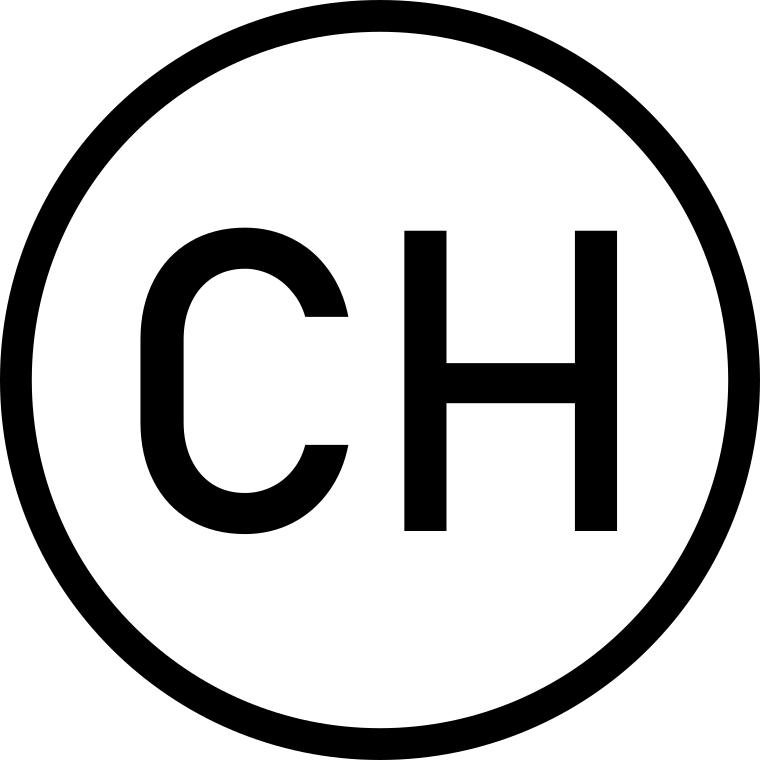
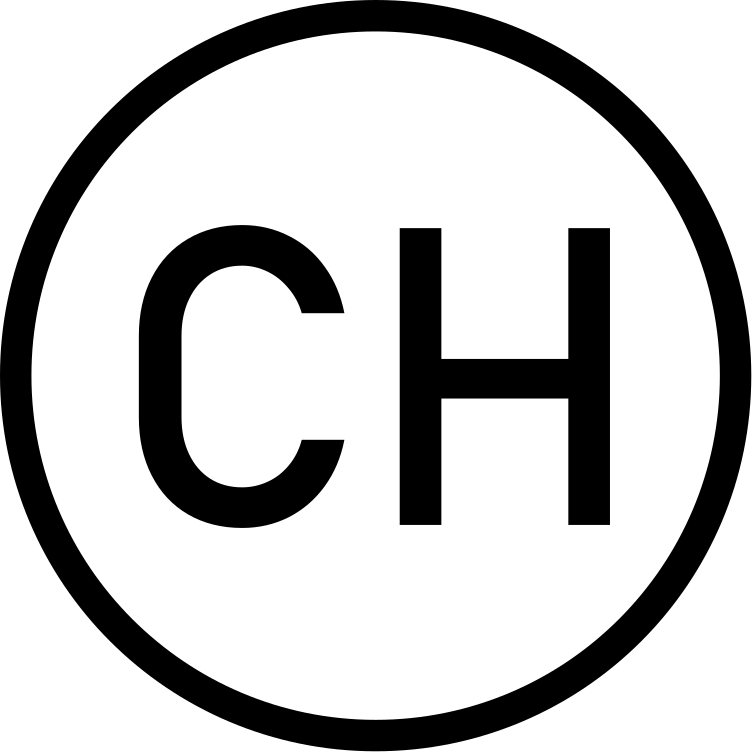
Vectorized the image

diff --git a/index.html b/index.html
@@ -9,7 +9,25 @@
 <body>
     <header id="navHeader">
         <div class="logo">
-            <a href="#hero"><img id="logo-img" src="images/ch_icon.png" alt="Chris Hofer Logo" /></a>
+            <a href="#hero">
+                <svg width="34" height="34" viewBox="0 0 200 200" id="logo-img">
+                    <g id="layer1">
+                        <g aria-label="CH">
+                        <path
+                            d="m 64.680348,140.29708 q -8.154148,0 -14.36426,-3.61807 -6.156111,-3.61807 -9.558173,-10.26019 -3.402062,-6.64212 -3.402062,-15.39027 V 89.482155 q 0,-8.748158 3.402062,-15.390278 3.402062,-6.64212 9.558173,-10.260186 6.210112,-3.672066 14.36426,-3.672066 6.750122,0 12.420225,2.916052 5.670102,2.862052 9.450171,8.154148 3.834069,5.292096 5.184094,12.258222 v 0 H 80.448633 v 0 q -1.026018,-3.672067 -3.456062,-6.534118 -2.376043,-2.916053 -5.616102,-4.482081 -3.240058,-1.566029 -6.696121,-1.566029 -4.806087,0 -8.424152,2.322042 -3.618066,2.322042 -5.616102,6.534119 -1.998036,4.158075 -1.998036,9.720175 v 21.546395 q 0,5.5081 1.998036,9.72017 1.998036,4.21208 5.616102,6.53412 3.618065,2.26804 8.424152,2.26804 3.510064,0 6.696121,-1.45803 3.240059,-1.45802 5.616102,-4.32007 2.430044,-2.86206 3.456062,-6.80413 v 0 h 11.286205 v 0 q -1.350025,6.96613 -5.184094,12.25822 -3.83407,5.2921 -9.504172,8.20815 -5.670103,2.86206 -12.366224,2.86206 z" />
+                        <path
+                            d="m 150.97391,60.969639 h 11.0162 v 78.517421 h -11.0162 z m -44.60481,0 h 11.0162 v 78.517421 h -11.0162 z m 6.85813,34.614627 h 43.57878 v 10.476194 h -43.57878 z" />
+                        </g>
+                        <ellipse
+                            id="path14"
+                            cx="99.999992"
+                            cy="100.00001"
+                            style="fill:none;stroke-width:8.31606;stroke-miterlimit:4;stroke-dasharray:none;stroke-opacity:1"
+                            rx="95.219307"
+                            ry="95.219315" />
+                    </g>
+                </svg>
+            </a>
         </div>
         <nav>
             <ul id="navMenu">

diff --git a/js/main.js b/js/main.js
@@ -3,7 +3,9 @@ var prevScrollpos = window.pageYOffset;
 window.onscroll = function() {
     this.resetNavMenu();
     var currentScrollPos = window.pageYOffset;
-    if (prevScrollpos > currentScrollPos) {
+    // Check for scroll pos <= 0 because iOS lets you scroll up past 0
+    // And that was triggering issues with the 
+    if (prevScrollpos > currentScrollPos || currentScrollPos <= 0) {
         document.getElementById("navHeader").style.top = "0";
     } else {
         document.getElementById("navHeader").style.top = "-52px";

diff --git a/css/main.css b/css/main.css
@@ -31,7 +31,7 @@ body {
 }
 
 .logo a {
-    background-color: var(--color3);
+    background-color: var(--color1);
     float: right;
 }
 
@@ -42,6 +42,8 @@ body {
     padding-bottom: 5px;
     width:34px;
     height:34px;
+    fill: #fff;
+    stroke: #fff;
 }
 
 header {
@@ -89,7 +91,7 @@ ul#navMenu li a {
 	right:0;
 	width:51px;
 	height:51px;
-	background-color:var(--color3);
+	background-color:var(--color1);
     cursor:pointer;
     /* hidden by default on large screens */
     display: none;
